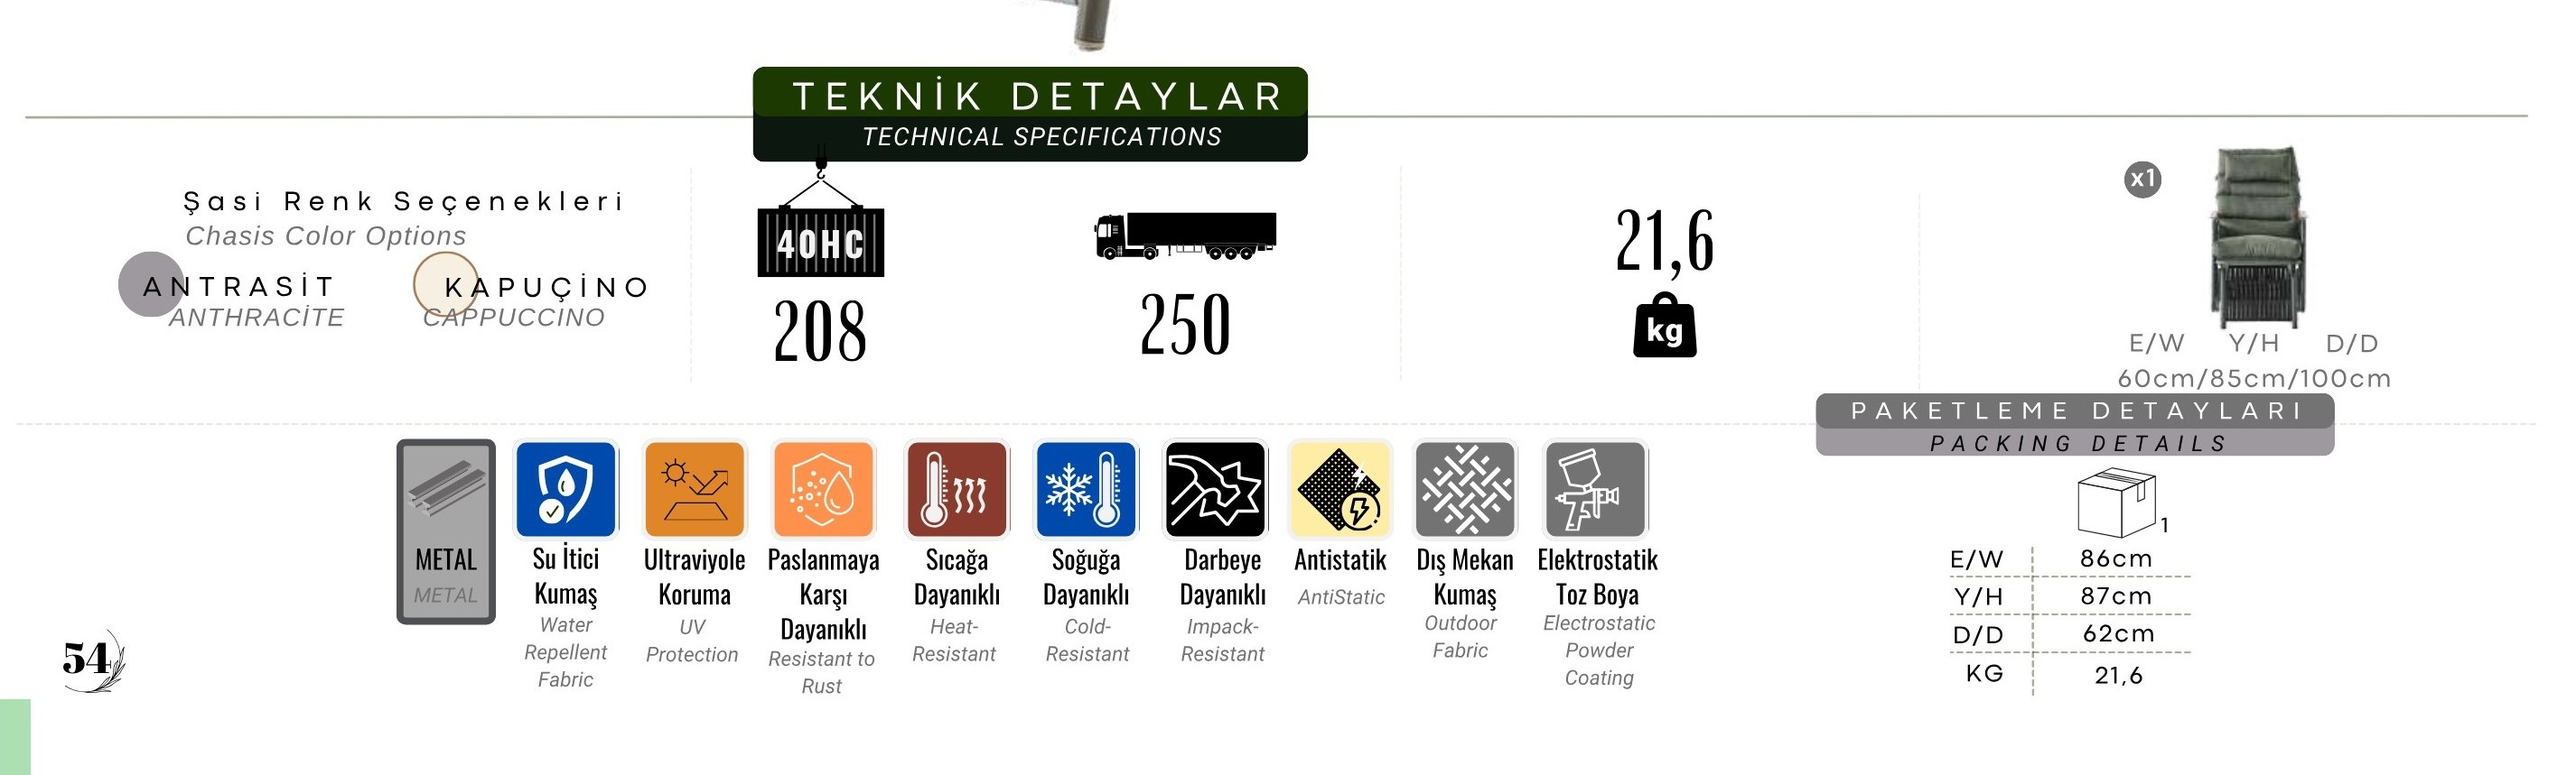
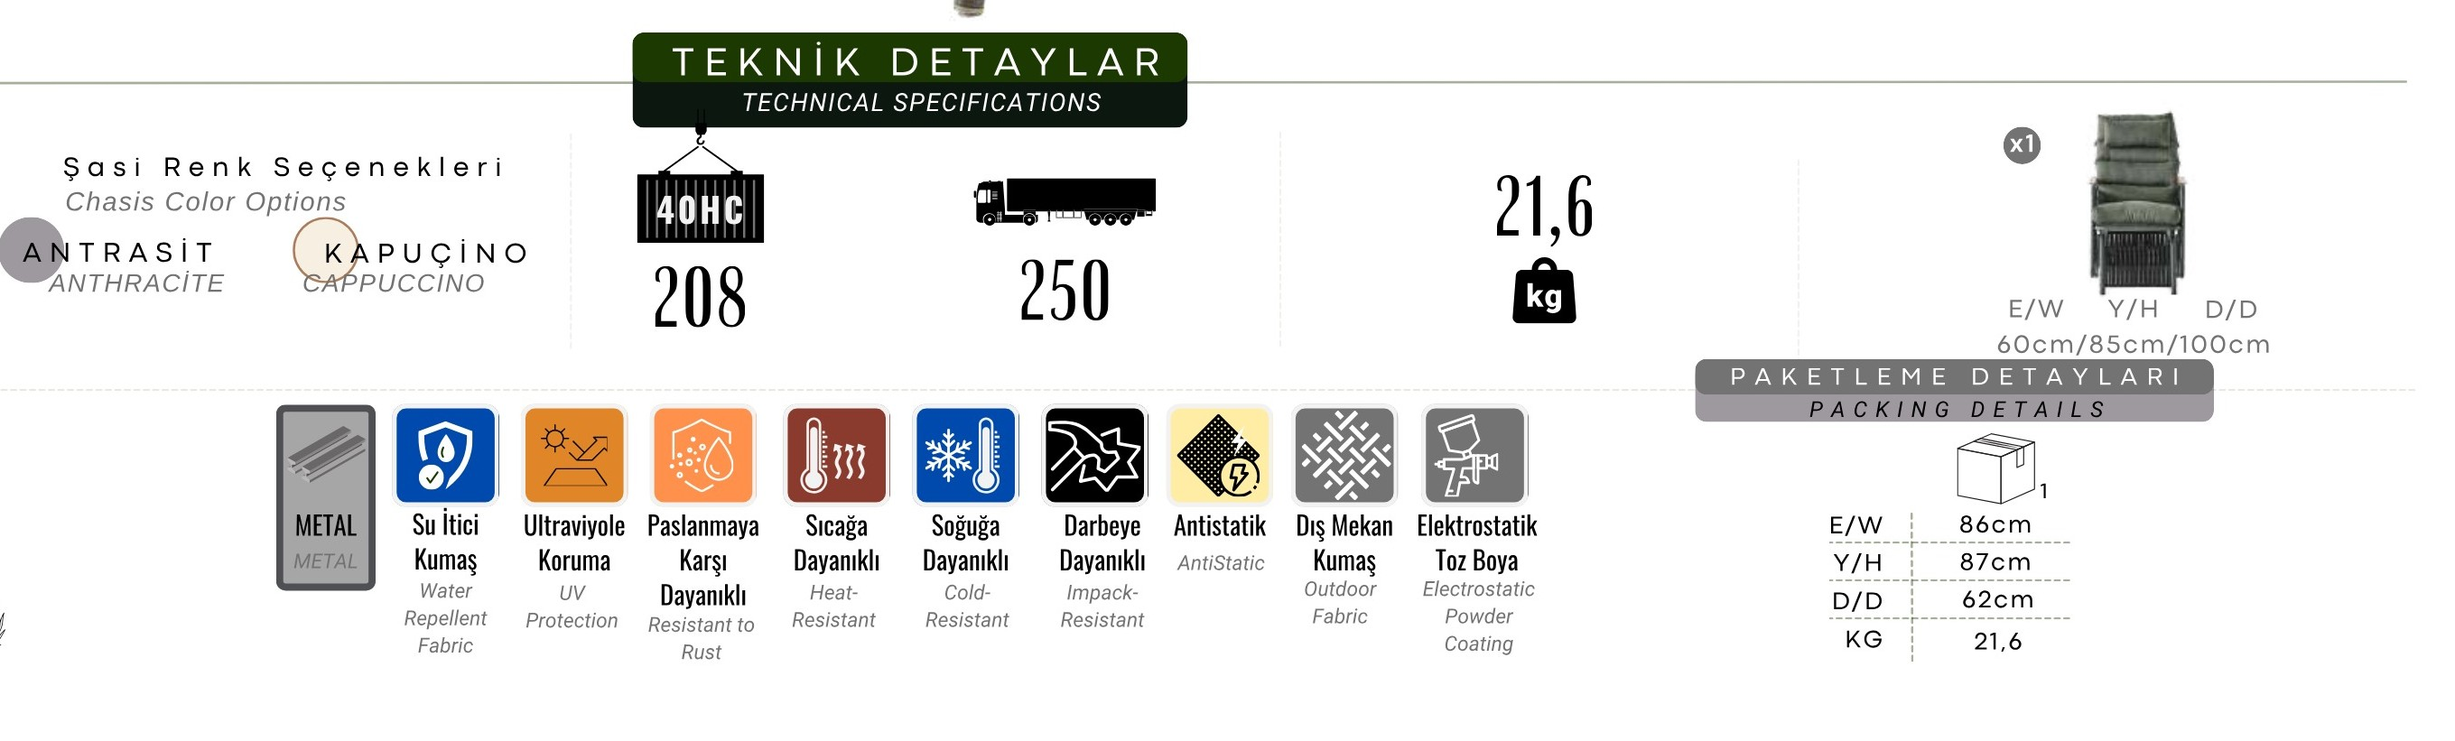
Bahce modal galeri ve swing 2. foto

diff --git a/src/App.jsx b/src/App.jsx
@@ -468,6 +468,7 @@ function ConceptModal({ c, t, ui, onClose }) {
   const [zoom, setZoom] = useState(1)
   const [zoom2, setZoom2] = useState(1)
   const [page, setPage] = useState(0)
+  const [sel, setSel] = useState(0)
   const [isFull, setIsFull] = useState(false)
   const mediaRef = useRef(null)
   const detailRef = useRef(null)
@@ -481,13 +482,14 @@ function ConceptModal({ c, t, ui, onClose }) {
       document.body.style.overflow = ''
     }
   }, [c, onClose])
-  useEffect(() => { setZoom(1); setZoom2(1); setPage(0) }, [c?.name])
+  useEffect(() => { setZoom(1); setZoom2(1); setPage(0); setSel(0) }, [c?.name])
   useEffect(() => {
     const onFs = () => setIsFull(!!document.fullscreenElement)
     document.addEventListener('fullscreenchange', onFs)
     return () => document.removeEventListener('fullscreenchange', onFs)
   }, [])
   if (!c) return null
+  const cg = c.gallery?.length ? c.gallery : [c.img]
   const dimgs = c.detail?.images || []
   const lastPage = dimgs.length
   const curDetail = dimgs[page]
@@ -515,8 +517,15 @@ function ConceptModal({ c, t, ui, onClose }) {
             className={`gallery__zoombox ${zoom > 1 ? 'zoomed' : ''}`}
             onClick={() => setZoom((z) => (z > 1 ? 1 : 2))}
           >
-            <img className="gallery__main" src={c.img} alt={c.name} style={{ transform: `scale(${zoom})` }} />
+            <img className="gallery__main" src={cg[sel] ?? cg[0]} alt={c.name} style={{ transform: `scale(${zoom})` }} />
           </div>
+          {cg.length > 1 && (
+            <div className="gallery__viewer">
+              <button className="garrow" onClick={() => setSel((sel - 1 + cg.length) % cg.length)} aria-label={ui.prev}>‹</button>
+              <span className="gzoom">{sel + 1} / {cg.length}</span>
+              <button className="garrow" onClick={() => setSel((sel + 1) % cg.length)} aria-label={ui.next}>›</button>
+            </div>
+          )}
         </div>
         {dimgs.length > 0 && page !== lastPage ? (
           <div className="modal__info modal__info--detail" ref={detailRef} style={curDetail?.bg ? { background: curDetail.bg } : undefined}>

diff --git a/src/content.js b/src/content.js
@@ -323,6 +323,7 @@ const tr = {
       {
         name: 'Space Swing',
         img: '/assets/swing.jpeg',
+        gallery: ['/assets/swing.jpeg', '/assets/concept/swing/chairs.jpg'],
         detail: {
           images: [
             { src: '/assets/concept/swing/detail.jpg', bg: null },
@@ -335,6 +336,7 @@ const tr = {
       {
         name: 'Gondol',
         img: '/assets/gondol.jpeg',
+        gallery: ['/assets/gondol.jpeg', '/assets/concept/gondol/cream.jpg'],
         detail: {
           images: [
             { src: '/assets/concept/gondol/detail.jpg', bg: null },
@@ -788,6 +790,7 @@ const en = {
       {
         name: 'Space Swing',
         img: '/assets/swing.jpeg',
+        gallery: ['/assets/swing.jpeg', '/assets/concept/swing/chairs.jpg'],
         detail: {
           images: [
             { src: '/assets/concept/swing/detail.jpg', bg: null },
@@ -800,6 +803,7 @@ const en = {
       {
         name: 'Gondol',
         img: '/assets/gondol.jpeg',
+        gallery: ['/assets/gondol.jpeg', '/assets/concept/gondol/cream.jpg'],
         detail: {
           images: [
             { src: '/assets/concept/gondol/detail.jpg', bg: null },
